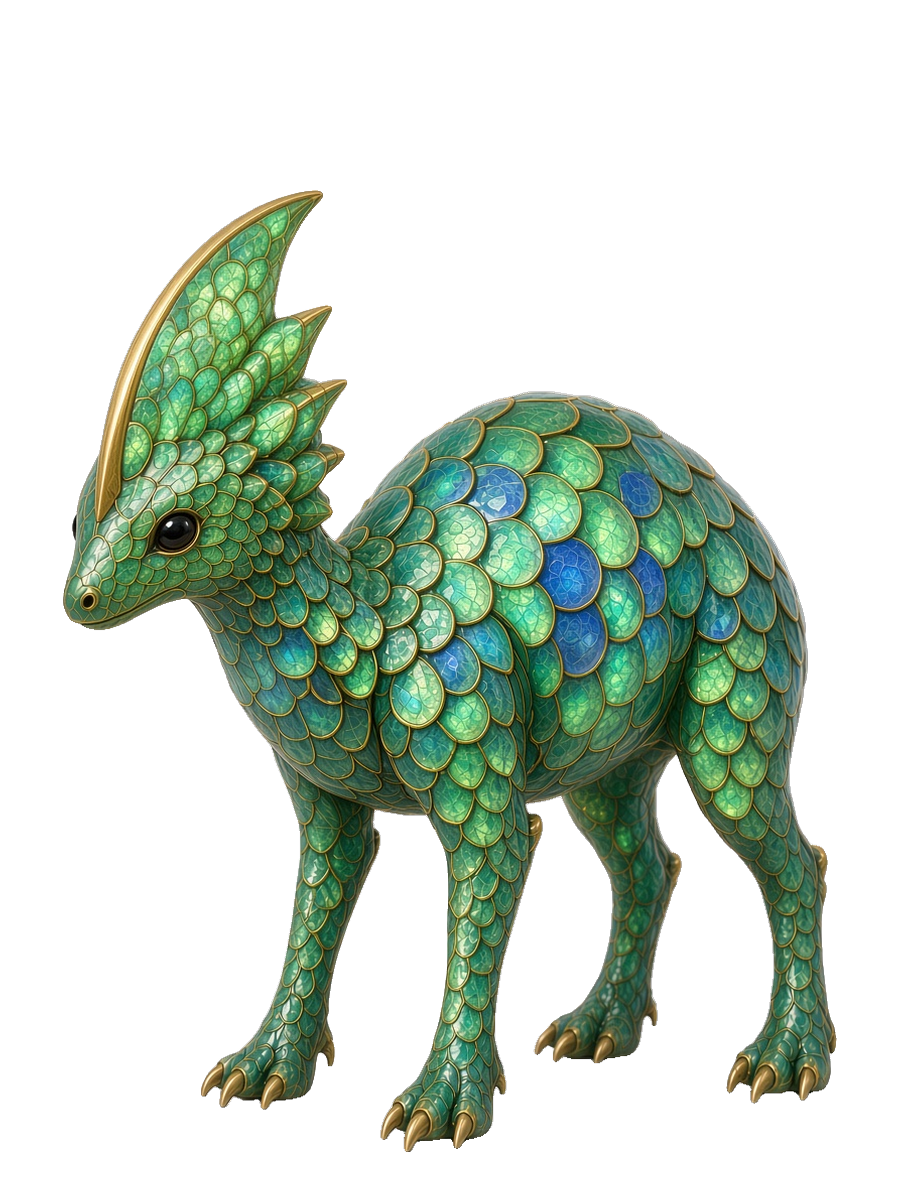
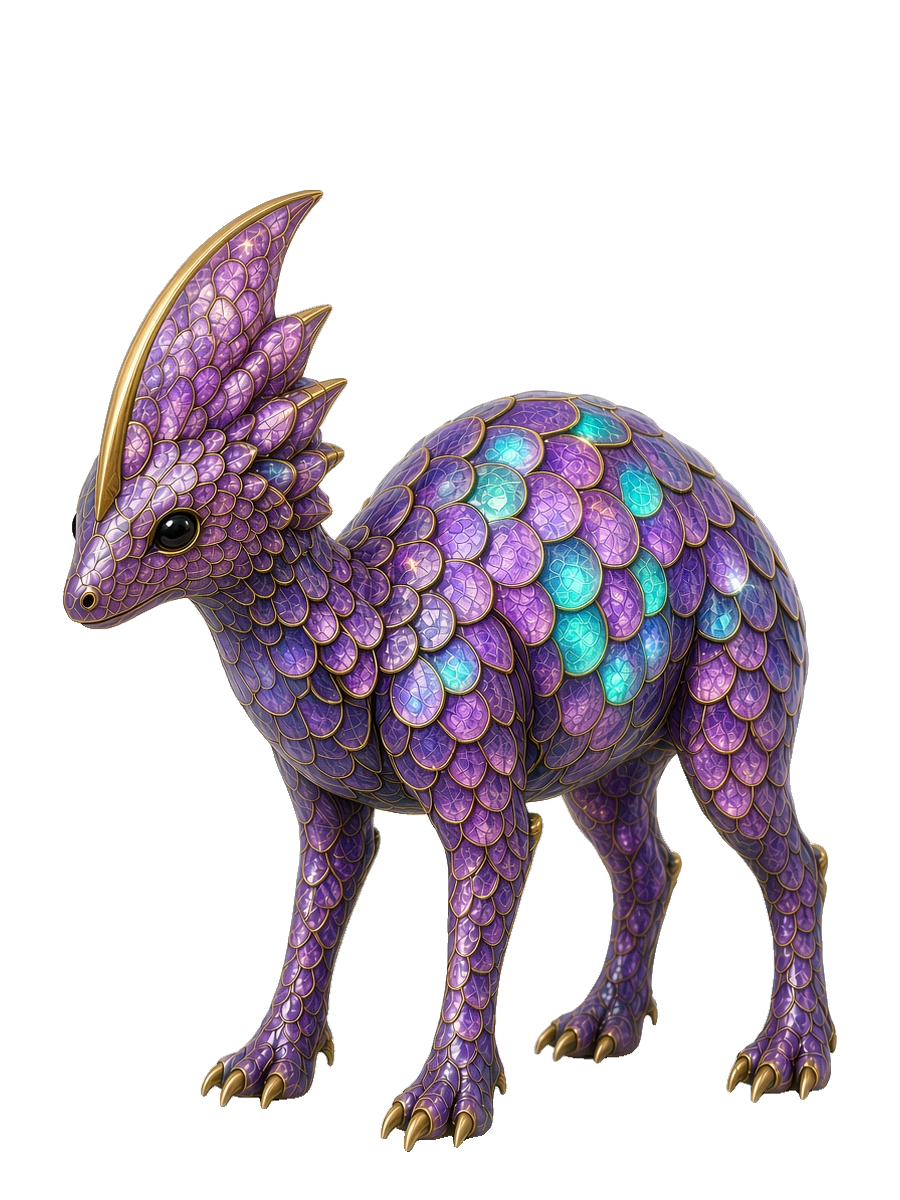
Emaillo und Lakrillo: epische Variante deutlicher abgesetzt

Changed region(s): [[0.0622, 0.1542, 0.9333, 0.9558]]

diff --git a/lib/data/companion_cutouts.dart b/lib/data/companion_cutouts.dart
@@ -123,7 +123,7 @@ const Map<String, ({Size size, Rect body})> companionCutouts = {
   'kraterix': (size: Size(900, 1200), body: Rect.fromLTWH(77, 72, 745, 1080)),
   'lakrillo-epic': (
     size: Size(900, 1200),
-    body: Rect.fromLTWH(63, 399, 774, 753),
+    body: Rect.fromLTWH(63, 401, 774, 751),
   ),
   'lakrillo-legendary': (
     size: Size(900, 1200),
